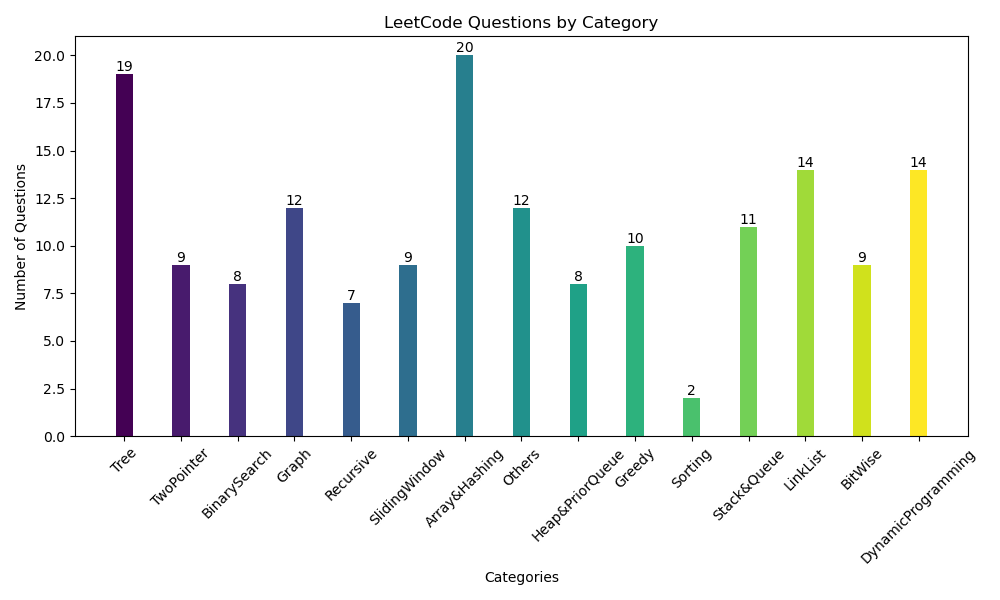
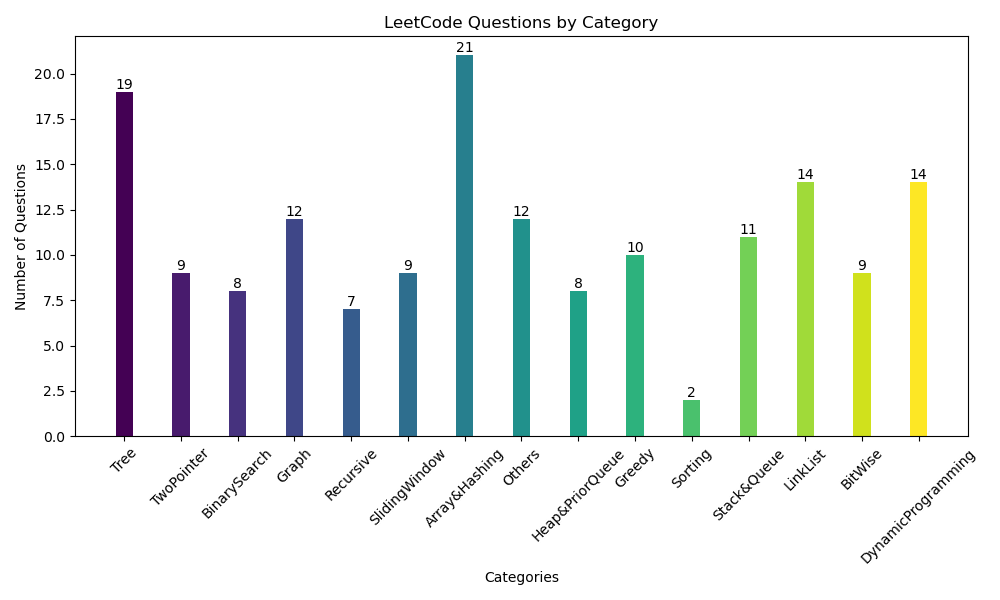
5/4 leecode pratices

diff --git a/Array&Hashing/1128. Number of Equivalent Domino Pairs.cpp b/Array&Hashing/1128. Number of Equivalent Domino Pairs.cpp
@@ -1,0 +1,25 @@
+/*
+    1. 暴力法 O(n^2)
+    2. sort dominoes and find same pair O(nlogn)
+    2. hashtable, 因為domino只有1~9, 所以我們可以透過 pair去組成key(小的在前面)
+        然後每次找到相同的key都去加總目前hashmap裡面相同key
+   pair的數量(可配對數量)
+*/
+class Solution {
+  public:
+	int numEquivDominoPairs(vector<vector<int>> &dominoes) {
+		unordered_map<int, int> domino_map;
+
+		int sum_pair = 0;
+		for (auto &d : dominoes) {
+			int key = 0;
+			if (d[0] < d[1]) {
+				key = d[0] * 10 + d[1];
+			} else
+				key = d[1] * 10 + d[0];
+			sum_pair += domino_map[key];
+			++domino_map[key];
+		}
+		return sum_pair;
+	}
+};

diff --git a/README.md b/README.md
@@ -1,7 +1,7 @@
 # LeetCode Problems
 
 ❌  can't resolve without solution: 12
-📝  can't resolve without hint: 132
+📝  can't resolve without hint: 133
 ✅  resolve by self: 20
 ## Tree
 - ❌ 105. Construct Binary Tree from Preorder and Inorder Traversal
@@ -96,6 +96,7 @@
 - 📝 169.majorityElement
 - 📝 hashtable
 - 📝 DuplicateArray
+- 📝 1128. Number of Equivalent Domino Pairs
 - 📝 anagramGroup
 - 📝 ProductsArrayExceptSelf
 - ✅ valideSudoku
@@ -198,7 +199,7 @@
 - ✅ uniquePath
 
 ## Statistics
-Current total questions: 164
+Current total questions: 165
 
 <img src="chart.png" alt="questions bar chart" width="500">
 
